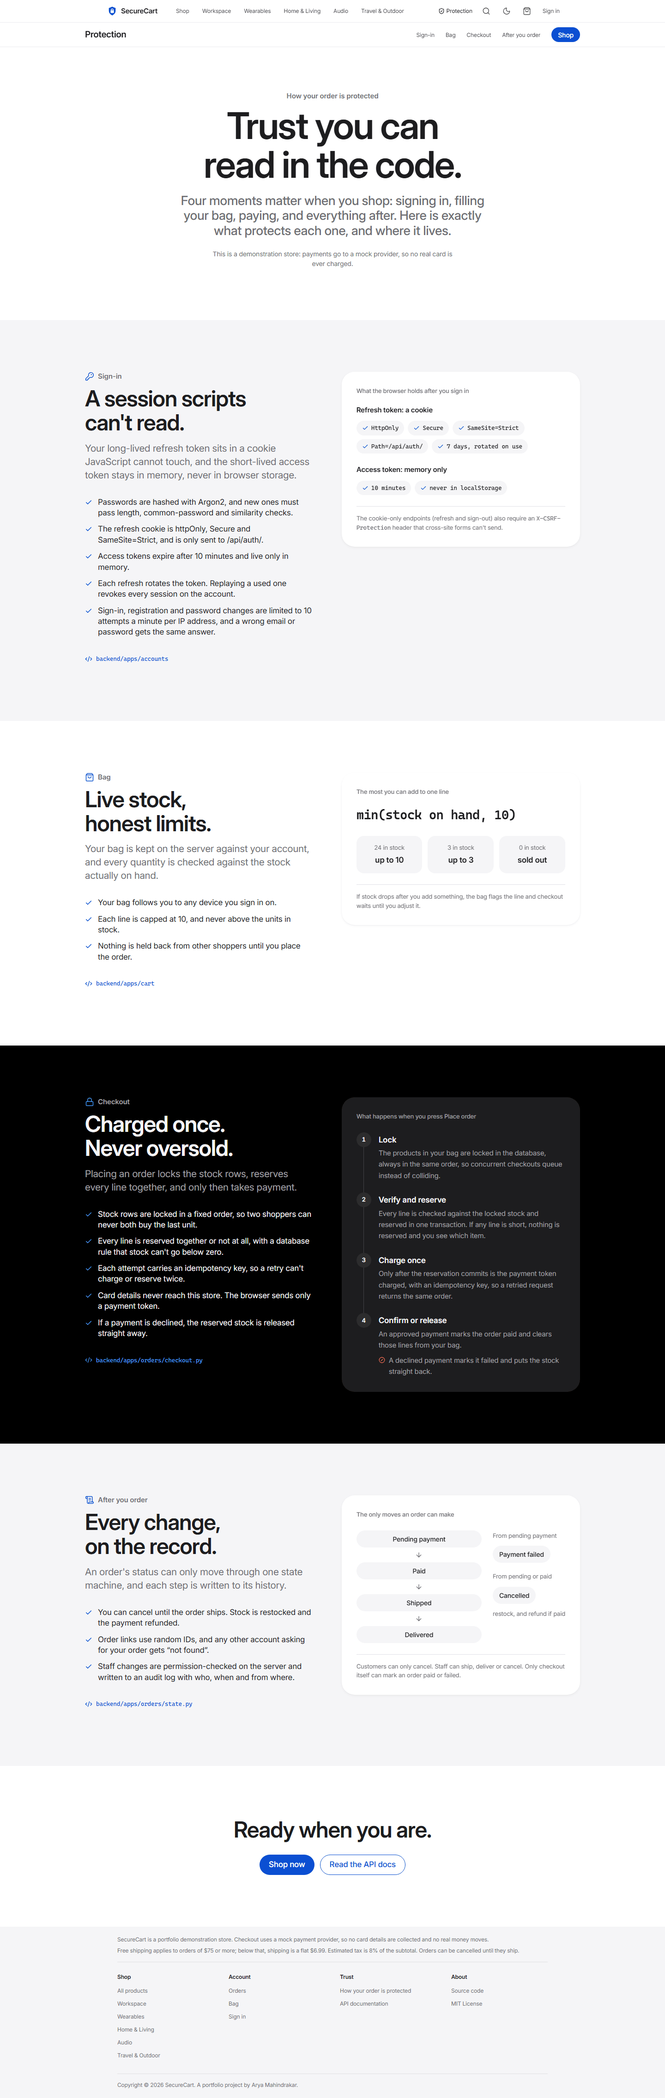
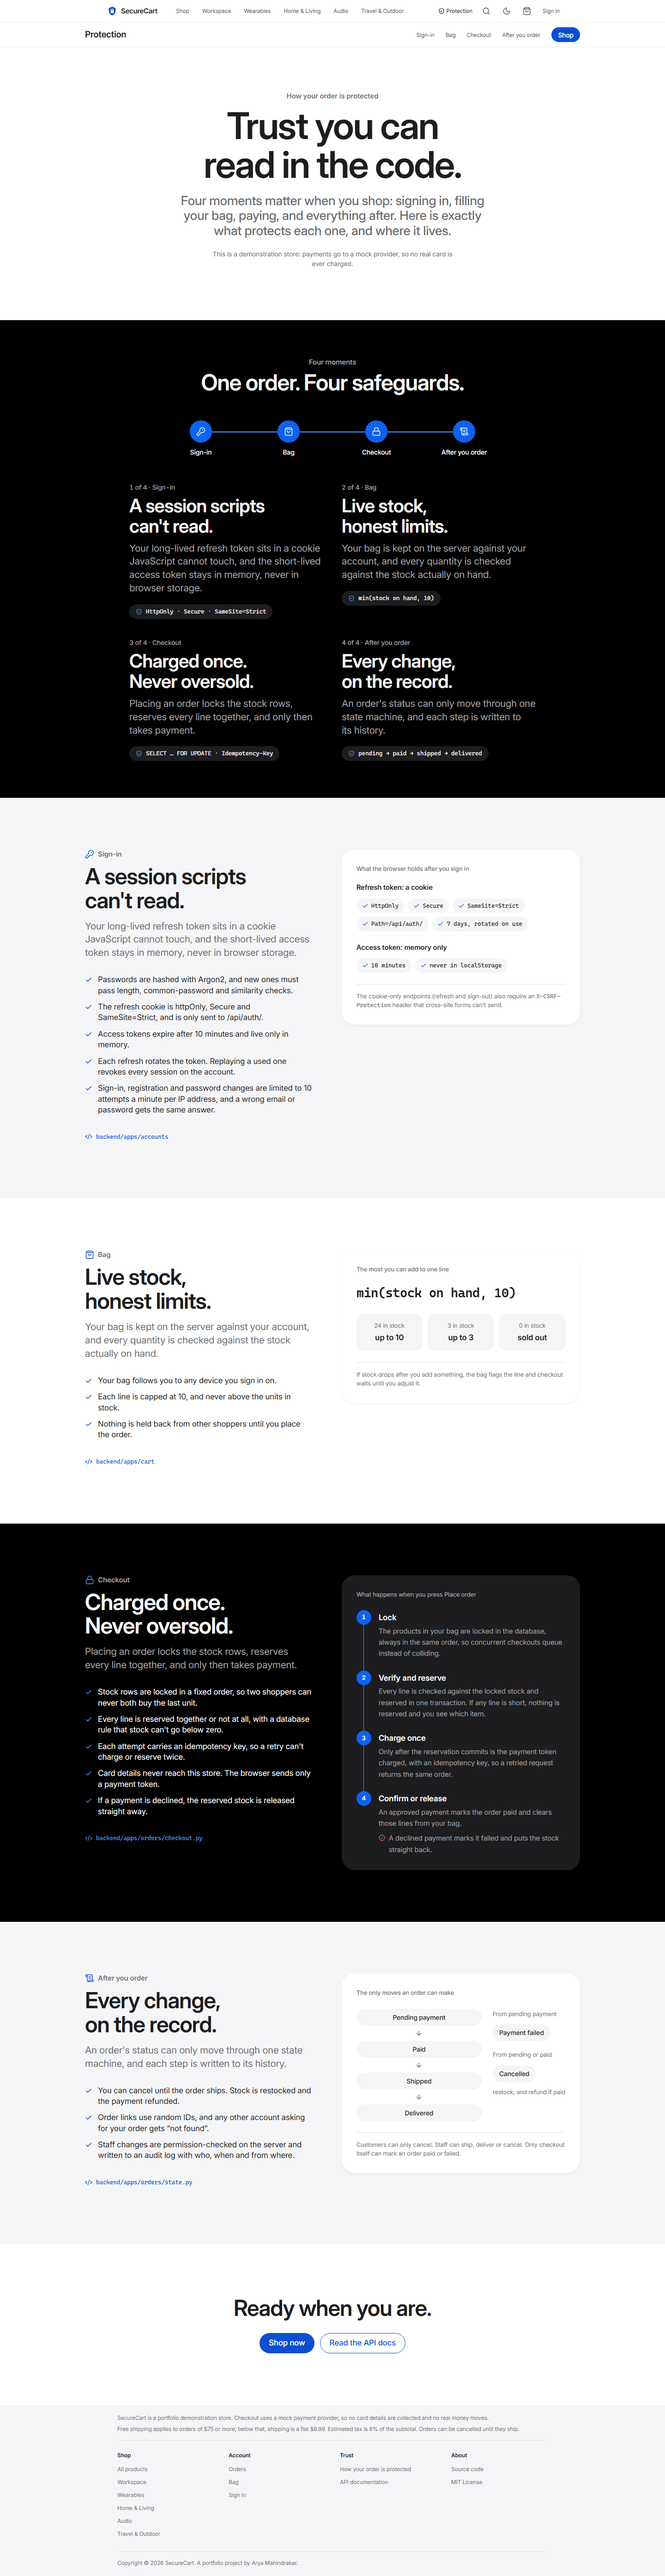
docs: README covers the prerender and the motion; fresh /protection captures
- protection.png re-captured from the Docker stack (compressed with sharp). The
  screenshot script now captures /protection with reduced motion, which lays the
  pinned story out as its static overview; a full-page capture of the scrubbed
  stage would show one stage over four screens of black.
- protection-story.gif (580 KB): the four-moments story while scrolling, recorded
  at 1440x900 and played at 2x.
- Features, architecture, testing counts (backend 249, frontend 83, e2e 23) and
  the measured numbers from the 2026-10-23 audit of this build. The other
  screenshots show no visible change and were left as they were.

diff --git a/scripts/screenshots.py b/scripts/screenshots.py
@@ -57,8 +57,13 @@ def storefront(base: str, browser, dark: bool = False) -> None:  # type: ignore[
         return
     page.goto(f"{base}/shop?category=audio")
     shot(page, "shop")
+    # The four-moments story is a pinned, scroll-scrubbed stage; a full-page capture of it
+    # would show one stage over four screens of black. Reduced motion lays it out as the
+    # static overview (every stage lit, all four panels), which is what a still image needs.
+    page.emulate_media(reduced_motion="reduce")
     page.goto(f"{base}/protection")
     shot(page, "protection", full_page=True)
+    page.emulate_media(reduced_motion="no-preference")
     page.goto(f"{base}/products/aurora-wireless-headphones")
     shot(page, "product")
     page.goto(f"{base}/login")

diff --git a/README.md b/README.md
@@ -34,7 +34,7 @@ Customers browse a catalog, manage a server-side cart, check out and track order
   <img src="docs/screenshots/mobile-admin.png" width="230" alt="Mobile admin dashboard">
 </p>
 
-More screenshots: [how your order is protected](docs/screenshots/protection.png) · [shop](docs/screenshots/shop.png) · [product](docs/screenshots/product.png) · [bag](docs/screenshots/cart.png) · [order history](docs/screenshots/orders.png) · [sign in](docs/screenshots/login.png) · [admin products](docs/screenshots/admin-products.png) · [product editor](docs/screenshots/admin-product-edit.png) · [order fulfilment](docs/screenshots/admin-order-detail.png) · [audit log](docs/screenshots/admin-audit-log.png) · [dark mode](docs/screenshots/home-dark.png)
+More screenshots: [how your order is protected](docs/screenshots/protection.png) ([the four-moments story, scrolling](docs/screenshots/protection-story.gif)) · [shop](docs/screenshots/shop.png) · [product](docs/screenshots/product.png) · [bag](docs/screenshots/cart.png) · [order history](docs/screenshots/orders.png) · [sign in](docs/screenshots/login.png) · [admin products](docs/screenshots/admin-products.png) · [product editor](docs/screenshots/admin-product-edit.png) · [order fulfilment](docs/screenshots/admin-order-detail.png) · [audit log](docs/screenshots/admin-audit-log.png) · [dark mode](docs/screenshots/home-dark.png)
 
 > All screenshots are captured from the Docker stack by [`scripts/screenshots.py`](scripts/screenshots.py), which drives the real UI against the seeded demo data. Product images are original SVGs drawn by [`scripts/generate_product_art.py`](scripts/generate_product_art.py).
 
@@ -49,9 +49,12 @@ More screenshots: [how your order is protected](docs/screenshots/protection.png)
 - Checkout with address validation, a free-shipping threshold and tax, and a pluggable payment provider (an offline mock by default).
 - Order history and detail with a status tracker, event timeline and self-service cancellation before shipping (restock and refund).
 - Registration and sign-in, light/dark themes, responsive layouts, and loading, empty and error states throughout.
-- A "How your order is protected" page (`/protection`) and quiet trust cues at sign-in, bag, checkout and order confirmation. Every statement describes a mechanism in this codebase and links to it; the copy lives in one file (`frontend/src/lib/protection.ts`).
+- Public pages (home, shop and each category, `/protection` and every product) are prerendered at build time and hydrated, so they read completely before, or without, any JavaScript.
+- A "How your order is protected" page (`/protection`), told as four moments that light up stage by stage as you scroll, and quiet trust cues at sign-in, bag, checkout and order confirmation. Every statement describes a mechanism in this codebase and links to it; the copy lives in one file (`frontend/src/lib/protection.ts`).
 
-**Design**: Apple Store calm on white and `#f5f5f7` with one deep-blue accent, Inter with optical sizing, designed light and dark themes, WCAG AA contrast throughout, reduced-motion support, and touch targets of at least 24px everywhere (WCAG 2.5.8) with 44px header controls and footer rows on phones. Product images are original SVG illustrations lit as one studio set, with one camera rule: standing products at eye level, desk objects from about 30° above.
+**Design**: Apple Store calm on white and `#f5f5f7` with one deep-blue accent, Inter with optical sizing, designed light and dark themes, WCAG AA contrast throughout, and touch targets of at least 24px everywhere (WCAG 2.5.8) with 44px header controls and footer rows on phones. Product images are original SVG illustrations lit as one studio set, with one camera rule: standing products at eye level, desk objects from about 30° above.
+
+**Motion**: quiet and purposeful, with no animation library. `/protection` pins a four-moments story (sign-in, bag, checkout, after you order) whose stages light up along a rail as you scroll, and the checkout chapter's four steps light up in order; the local nav's underline slides between sections; on the home page the lead product steps forward as the page scrolls; a product card morphs into its product page (View Transitions); adding to the bag changes the pressed button to "Added" and the nav's bag icon acknowledges it; the admin revenue line draws in and its bars grow. Scroll-linked motion uses CSS scroll-driven animations, with a small scripted fallback where they are missing. Only opacity and transform animate, nothing is hidden before script or CSS support is confirmed, and with reduced motion every element shows its final state.
 
 **Admin console** (`/admin`, admin role only)
 - Dashboard: revenue and order KPIs, a 30-day revenue chart (with a data-table view), orders by status, top products and low-stock alerts, plus a Ctrl/⌘K command palette.
@@ -67,7 +70,7 @@ flowchart LR
     browser["Browser<br/>React SPA"]
 
     subgraph compose["docker compose"]
-        nginx["nginx (unprivileged)<br/>static SPA + CSP headers<br/>reverse proxy /api"]
+        nginx["nginx (unprivileged)<br/>prerendered pages + SPA + CSP headers<br/>reverse proxy /api"]
         api["Django + DRF<br/>gunicorn"]
         db[("PostgreSQL 17")]
     end
@@ -80,7 +83,7 @@ flowchart LR
     api -- "charge / refund" --> payment
 ```
 
-The browser only ever talks to one origin: nginx serves the SPA and proxies `/api` to Django, so the refresh cookie can be `SameSite=Strict` and CORS stays closed by default.
+The browser only ever talks to one origin: nginx serves the SPA and proxies `/api` to Django, so the refresh cookie can be `SameSite=Strict` and CORS stays closed by default. The public pages are prerendered by `npm run build` (React's `react-dom/static`, `frontend/scripts/prerender.mjs`) from `frontend/prerender/catalog.json`, public catalog responses recorded from the seeded demo store, so the build needs no running API; nginx answers each of those URLs with its own HTML file, the app hydrates it and refetches live stock and prices at once. A backend test keeps the snapshot equal to `seed_demo`'s catalog; after changing the demo catalog, re-record it with `npm run prerender:capture -- http://localhost:8080`.
 
 ```mermaid
 sequenceDiagram
@@ -222,20 +225,20 @@ Interactive documentation is served by the backend at **`/api/docs/`** (Swagger 
 ## Testing
 
 ```bash
-cd backend && uv run pytest --cov     # 247 tests; set DATABASE_URL to run on PostgreSQL
-cd frontend && npm test               # 64 tests
-cd frontend && npm run e2e            # 18 Playwright + axe specs (needs a running, seeded API)
+cd backend && uv run pytest --cov     # 249 tests; set DATABASE_URL to run on PostgreSQL
+cd frontend && npm test               # 83 tests
+cd frontend && npm run e2e            # 23 Playwright + axe specs (needs a running, seeded API)
 ```
 
 **Backend** (97% line coverage): registration and password policy; cookie attributes; refresh rotation and reuse detection; revocation on logout and password change; throttling, including password changes by a signed-in caller; an RBAC matrix built from the URL configuration itself, proving anonymous users get `401` and customers `403` on every admin route for every HTTP verb (55 cases), so a new admin endpoint is covered automatically; object isolation (other users' orders and cart items return `404`); immediate effect of demotion and suspension; checkout success, idempotent replays (a replayed decline repeats its `402`), insufficient stock with full rollback, declined payments releasing stock and an order cancelled while payment is in flight; the complete state-machine transition table; failed refunds rolling back; pending-order expiry; catalog filters and validation; audit diffs; security headers; the JSON error envelope for unknown routes and unhandled errors (with no details leaked); the dashboard maths; and a contract test that keeps the rules the storefront quotes (`frontend/src/lib/storeRules.ts`) equal to the server's defaults.
 
 The concurrency guarantees have their own tests on PostgreSQL, with real threads: **eight shoppers race for three units and exactly three orders succeed while stock ends at zero; six retries with one idempotency key for the last unit all get the same single order; six refreshes with one token never mint more than one session; and a refund is requested without holding any product row lock.** They run in CI against a PostgreSQL service container (and are skipped on SQLite).
 
-**Frontend**: the API client (silent refresh on `401`, deduplicated concurrent refreshes, no refresh for anonymous calls, nested field errors), redirect-target sanitising, form schemas, and full route rendering with MSW for the shop, product, bag, sign-in, registration, admin guard, command palette and checkout (including a fresh idempotency key after a decline, the same key on a retry after a dropped connection, with no claim that nothing was charged, and inline validation), noindex on private and not-found pages, and the footer credit. The tests wait on real milestones (MSW responses, loaded modules) rather than polling deadlines, so they behave the same on a loaded CI machine.
+**Frontend**: the API client (silent refresh on `401`, deduplicated concurrent refreshes, no refresh for anonymous calls, nested field errors), redirect-target sanitising, form schemas, and full route rendering with MSW for the shop, product, bag, sign-in, registration, admin guard, command palette and checkout (including a fresh idempotency key after a decline, the same key on a retry after a dropped connection, with no claim that nothing was charged, and inline validation), noindex on private and not-found pages, and the footer credit. The prerender is tested end to end in Node: every page's HTML carries its content and no inline script, hydrating it produces no mismatch, and a product still showing build-time data is confirmed against the live API before it is added to the bag. The motion tests cover the story's static, reduced-motion and scripted states, the add-to-bag cue with and without motion, and the chart draw-in. The tests wait on real milestones (MSW responses, loaded modules) rather than polling deadlines, so they behave the same on a loaded CI machine.
 
-**End-to-end**: Playwright drives the production build (served by `vite preview` with nginx's exact CSP and headers) against a live, seeded API: home in both themes, shop filters, search, the protection page, the product page and its sticky buy bar, the bag popover and mobile drawer, a real checkout through the mock provider plus the decline path, a checkout completed with the keyboard alone, noindex and robots.txt, the phone footer's 44px disclosure rows, and the admin dashboard, palette and tables. Every page is checked with axe-core (WCAG 2.2 A/AA, zero serious or critical violations), every test fails on any console error or CSP violation, and the suite checks for horizontal overflow at 390px and infinite animations under reduced motion.
+**End-to-end**: Playwright drives the production build (served by `vite preview` with nginx's exact CSP and headers) against a live, seeded API: home in both themes, shop filters, search, the protection page, the product page and its sticky buy bar, the bag popover and mobile drawer, a real checkout through the mock provider plus the decline path, a checkout completed with the keyboard alone, noindex and robots.txt, the phone footer's 44px disclosure rows, and the admin dashboard, palette and tables; the public pages with JavaScript off, hydration in place, the four-moments story at points through its pinned range, the card-to-page morph, and reduced motion (every stage lit, no view transition). Every page is checked with axe-core (WCAG 2.2 A/AA, zero serious or critical violations), every test fails on any console error or CSP violation, and the suite checks for horizontal overflow at 390px and infinite animations under reduced motion.
 
-**Measured** (2026-10-22, the Docker stack behind nginx, every route in light and dark at 1440px and 390px): zero serious or critical axe violations, CLS at most 0.01, no horizontal overflow, no touch target under 24px, no console or CSP errors, and Lighthouse desktop 100 for performance, accessibility, best practices and SEO on every public route. Mobile performance (simulated slow 4G, 4x CPU) is 90 to 94. The bag, checkout, orders, admin and not-found pages score 63 to 66 on Lighthouse SEO by design: their `noindex` fails its "is crawlable" audit, which is the only SEO audit they fail. The first visit downloads about 75 KB of app JavaScript plus 102 KB of React (gzipped); forms, toasts, the phone bag drawer and the admin charts load on demand.
+**Measured** (2026-10-23, the Docker stack behind nginx, every audited route in light and dark at 1440px and 390px): no axe violations reported, CLS at most 0.0072, no horizontal overflow, no touch target under 24px, no console or CSP errors, and Lighthouse desktop 100 for performance, accessibility, best practices and SEO on every public route. Mobile performance (simulated slow 4G, 4x CPU) is 89 to 94 on the public routes and 90 to 93 on the signed-in ones; it moves by a point or two between runs on the same build (three repeat runs of a product page gave 90, 91 and 90). With JavaScript off, the measured public pages (home, shop, a category, `/protection` and a product page) show 100% of the words they show with it on; scrolling those pages drops no frames (0% of frames over 20 ms), and with reduced motion no text is left hidden. The bag, checkout, orders, admin and not-found pages score 63 to 66 on Lighthouse SEO by design: their `noindex` fails its "is crawlable" audit, which is the only SEO audit they fail. The first visit downloads about 75 KB of app JavaScript plus 101 KB of React (gzipped); forms, toasts, the phone bag drawer and the admin charts load on demand.
 
 **CI** ([`.github/workflows/ci.yml`](.github/workflows/ci.yml)) runs Ruff (backend and `scripts/`), mypy, migration-drift and OpenAPI validation checks and pytest on PostgreSQL with a 90% coverage gate; ESLint, Prettier, `tsc`, Vitest and the production build; the Playwright + axe suite against gunicorn (DEBUG off) on a seeded PostgreSQL; then builds both images, starts the compose stack with `--wait` on its health checks and smoke-tests it through nginx. Actions are pinned to commit SHAs.
 
@@ -262,9 +265,12 @@ The concurrency guarantees have their own tests on PostgreSQL, with real threads
 │   │   ├── components/         # UI primitives, layout, store and admin components
 │   │   ├── pages/              # storefront and admin pages (+ tests)
 │   │   ├── lib/                # API client, endpoints, types, validation, formatting
+│   │   ├── prerender/          # which pages are prerendered, payload and hydration rules
 │   │   └── test/               # MSW server, fixtures, render helpers
 │   ├── public/products/        # generated product artwork (SVG)
 │   ├── e2e/                    # Playwright + axe end-to-end specs
+│   ├── prerender/catalog.json  # recorded catalog responses the build prerenders from
+│   ├── scripts/prerender.mjs   # build-time prerender (and snapshot capture)
 │   ├── nginx/                  # server config and security headers
 │   └── Dockerfile, package.json, package-lock.json
 ├── scripts/                    # product-art generator, screenshot capture
@@ -283,6 +289,7 @@ The concurrency guarantees have their own tests on PostgreSQL, with real threads
 - **Role checked against the database.** A role claim in the JWT would stay valid for the token's lifetime after a demotion. Reading `user.role` per request costs nothing extra, because authentication already loads the user.
 - **Refresh-token reuse revokes everything.** This follows OAuth refresh-rotation guidance. The cost is that two tabs refreshing at exactly the same instant can sign the user out; the client's single-flight refresh makes that rare.
 - **Django 5.2 LTS and ESLint 9.** Both are deliberate: 5.2 is the long-term-support line, and ESLint 9 is the newest major that `eslint-plugin-jsx-a11y` supports, so accessibility linting stays on.
+- **Prerendering from a recorded snapshot, not SSR.** The public pages only need the public catalog, so rendering them once per build keeps nginx static (no Node server in production) and lets the Docker image and CI build without a backend. The cost is that the HTML can lag the live catalog until the next build; the app refetches on load, and a product that has not been confirmed live yet is looked up before it goes into a bag. New products still work at once through the SPA shell.
 - **Migrations at container start.** Convenient for a single instance. With several replicas, set `RUN_MIGRATIONS=false` and run them as a release job.
 
 ## Roadmap (future work, not implemented)
